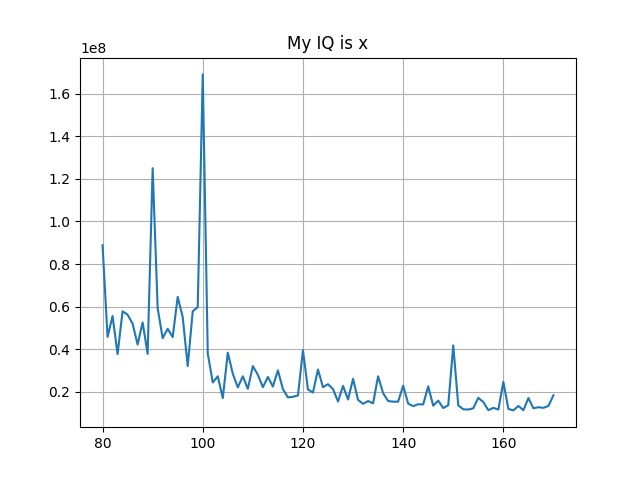
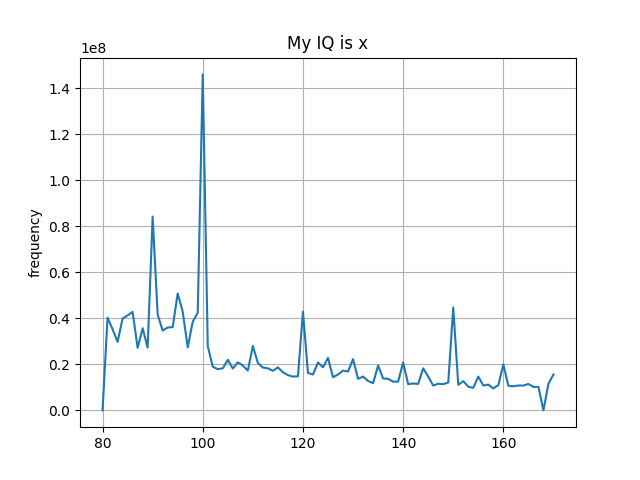
Replaced output with progress bar

diff --git a/main.py b/main.py
@@ -6,6 +6,10 @@ start = int(start)
 stop = int(stop)
 step = int(step)
 
+progBarWidth = 70
+rollsPerBar = int(stop-start/progBarWidth)
+barsToDraw = 0
+
 graphY = []
 graphX = []
 
@@ -14,10 +18,13 @@ for i in range(start, stop+1, step):
     response = GoogleSearch().search(term)
     graphY.append(response.total)
     graphX.append(i)
-    print(term, response.total)
+
+    barsToDraw = int(((i-start) / (1+stop-start))*progBarWidth)
+    print("\rProgress: |%s%s| %s" % ("#"*barsToDraw, "-"*(progBarWidth-barsToDraw-1), term), end="")
+print()
 
 
-plt.ylabel('')
+plt.ylabel("frequency")
 
 # linear
 plt.plot(graphX,graphY)
